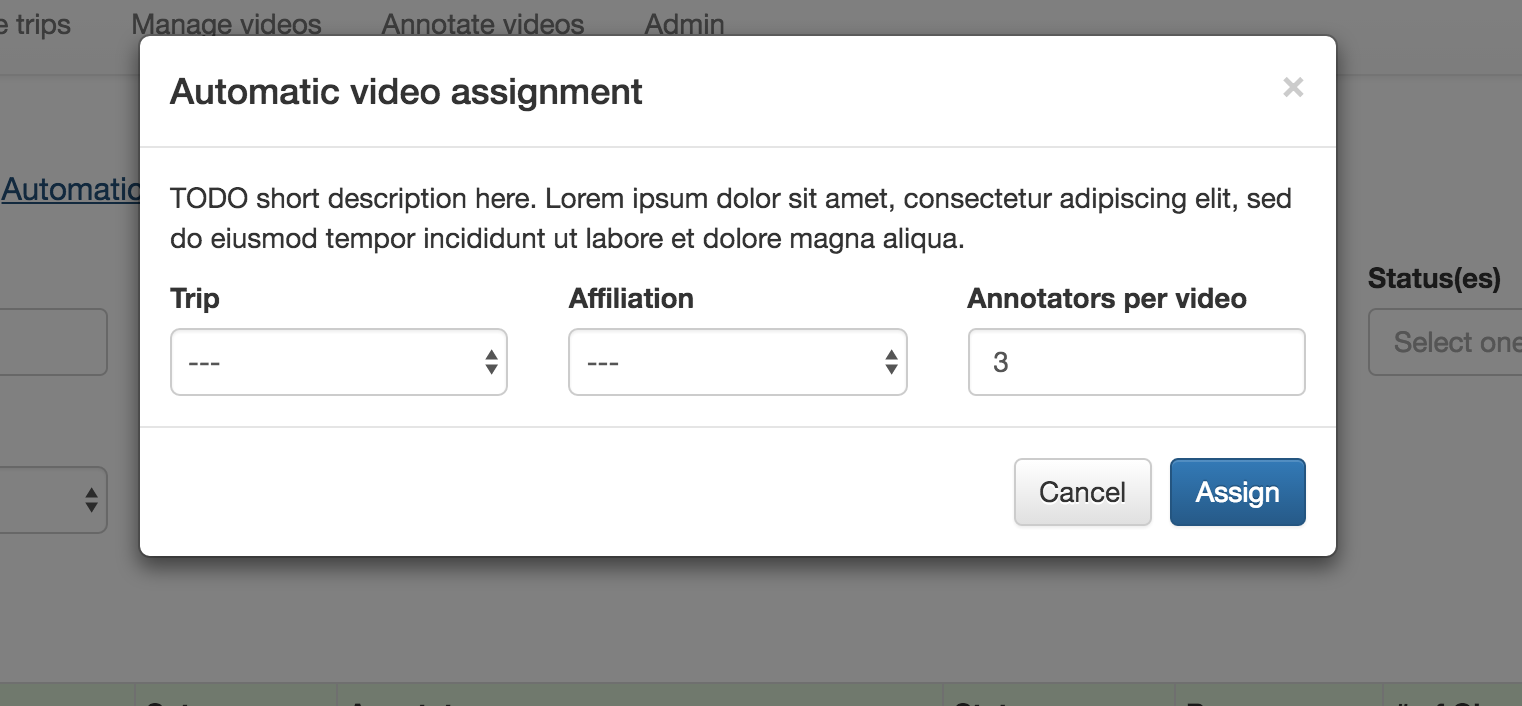
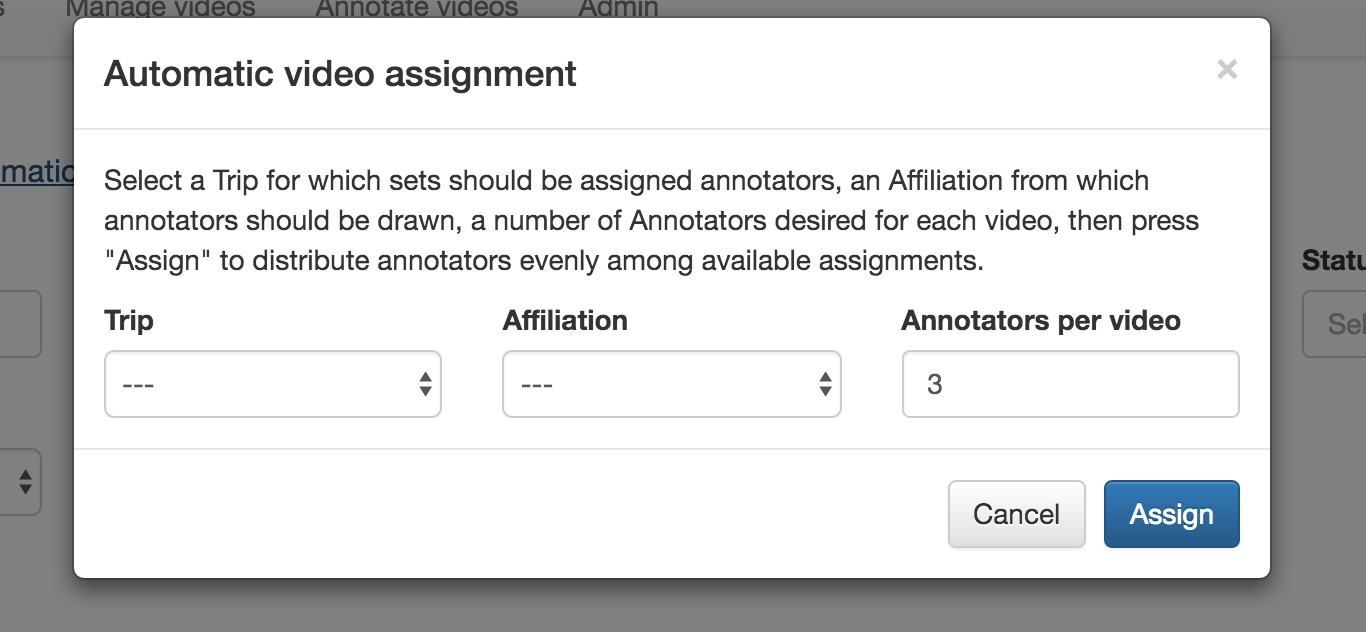
add description to auto assign modal and update screenshot

diff --git a/global_finprint/templates/pages/annotation/assignment_list.html b/global_finprint/templates/pages/annotation/assignment_list.html
@@ -122,8 +122,9 @@
                 <div class="modal-body">
                     <div class="row">
                         <p class="col-md-12">
-                            TODO short description here. Lorem ipsum dolor sit amet, consectetur adipiscing
-                            elit, sed do eiusmod tempor incididunt ut labore et dolore magna aliqua.
+                            Select a Trip for which sets should be assigned annotators, an Affiliation from which
+                            annotators should be drawn, a number of Annotators desired for each video, then press
+                            "Assign" to distribute annotators evenly among available assignments.
                         </p>
                     </div>
                     <div class="row">
